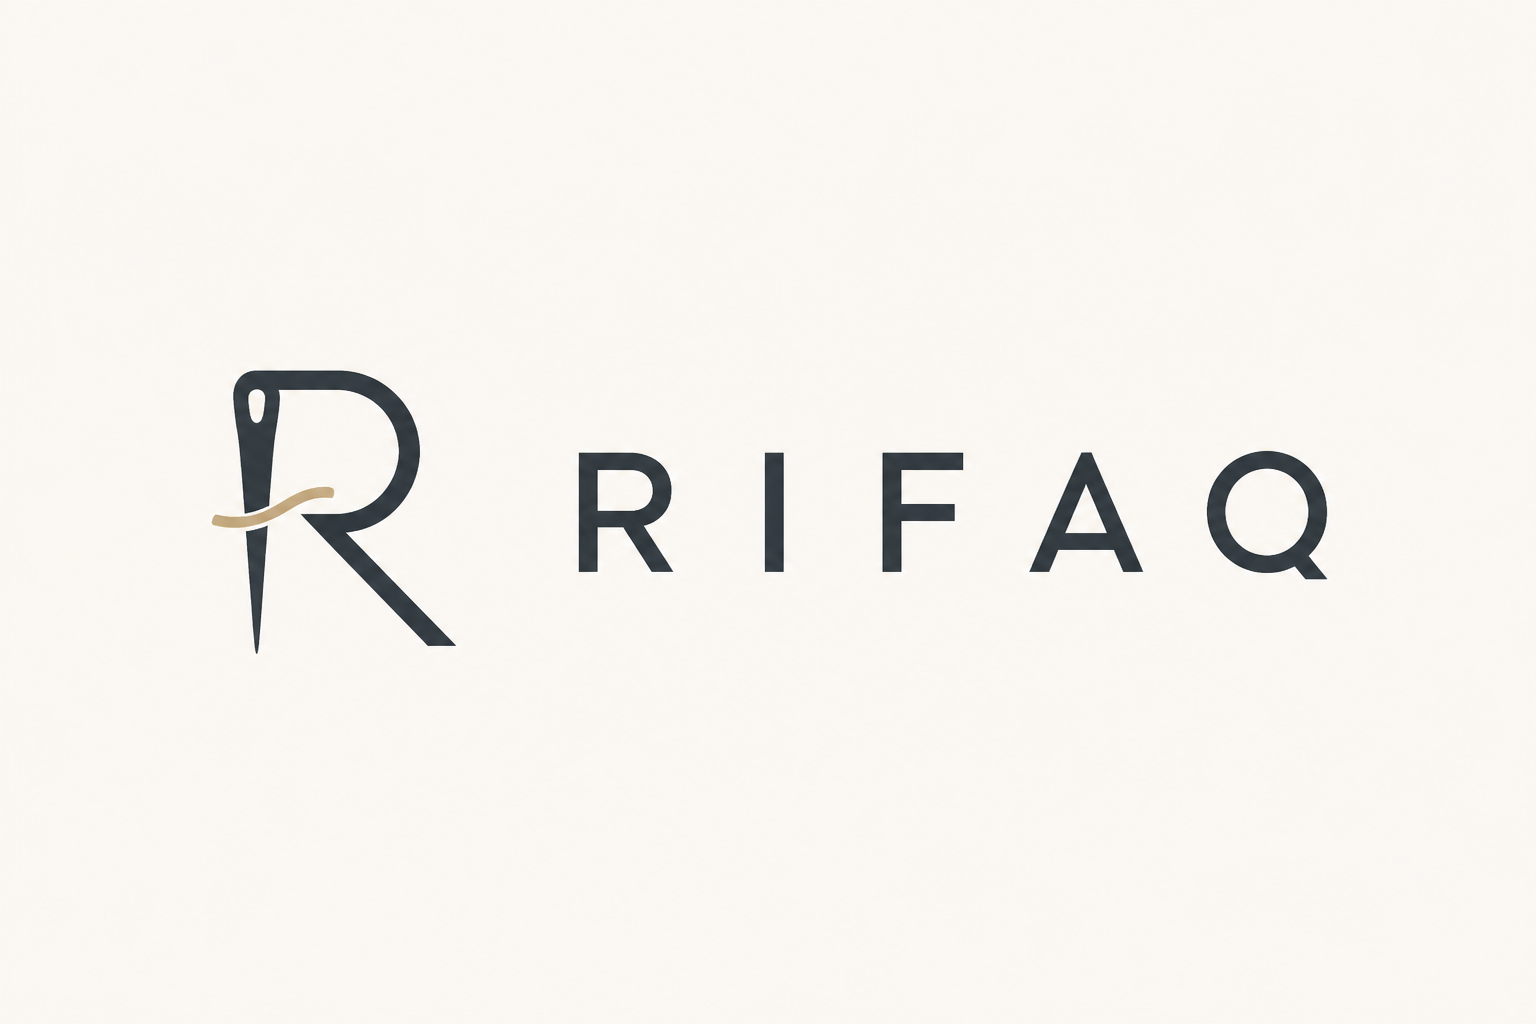
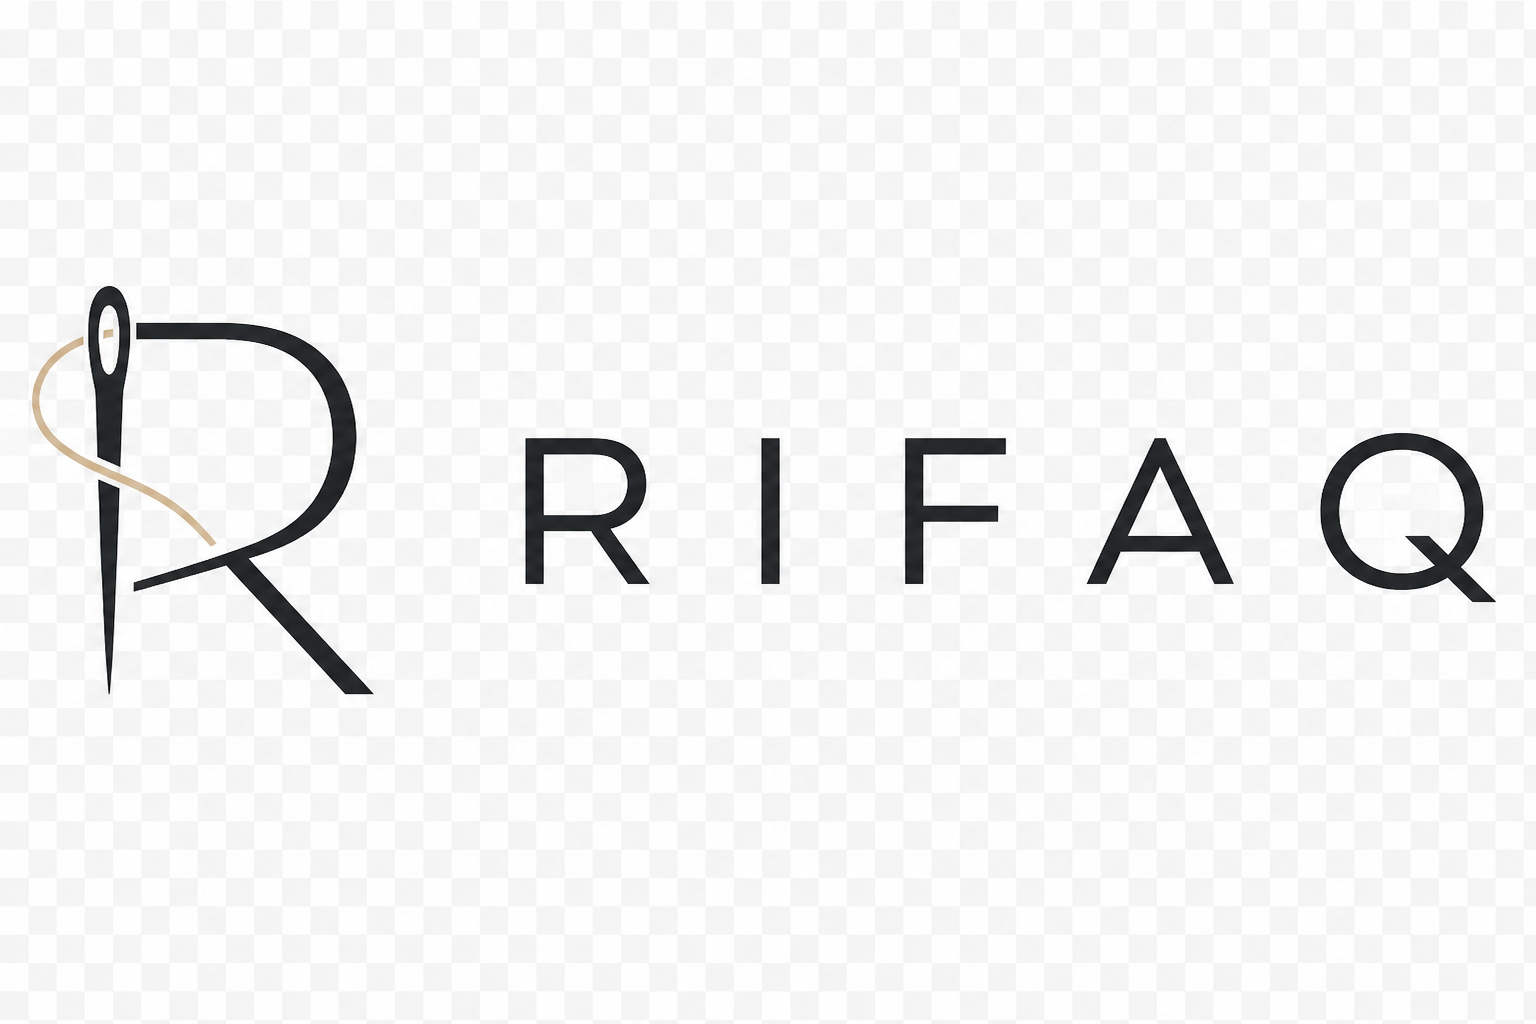
Update branding images and enhance blend mode in BrandMark component for improved visual consistency.

diff --git a/src/components/BrandMark.tsx b/src/components/BrandMark.tsx
@@ -2,14 +2,16 @@ type BrandMarkProps = {
   className?: string;
 };
 
+const blend = "mix-blend-multiply";
+
 export const BrandMark = ({ className = "h-8 w-8" }: BrandMarkProps) => (
-  <img src="/mark.png" alt="" width={64} height={64} className={className} />
+  <img src="/mark.png" alt="" width={64} height={64} className={`${blend} ${className}`} />
 );
 
 export const BrandWordmark = ({ className = "h-8 w-auto" }: BrandMarkProps) => (
-  <img src="/wordmark.png" alt="RIFAQ" className={className} />
+  <img src="/wordmark.png" alt="RIFAQ" className={`${blend} ${className}`} />
 );
 
 export const BrandLockup = ({ className = "h-36 w-auto" }: BrandMarkProps) => (
-  <img src="/logo.png" alt="RIFAQ" className={className} />
+  <img src="/logo.png" alt="RIFAQ" className={`${blend} ${className}`} />
 );
